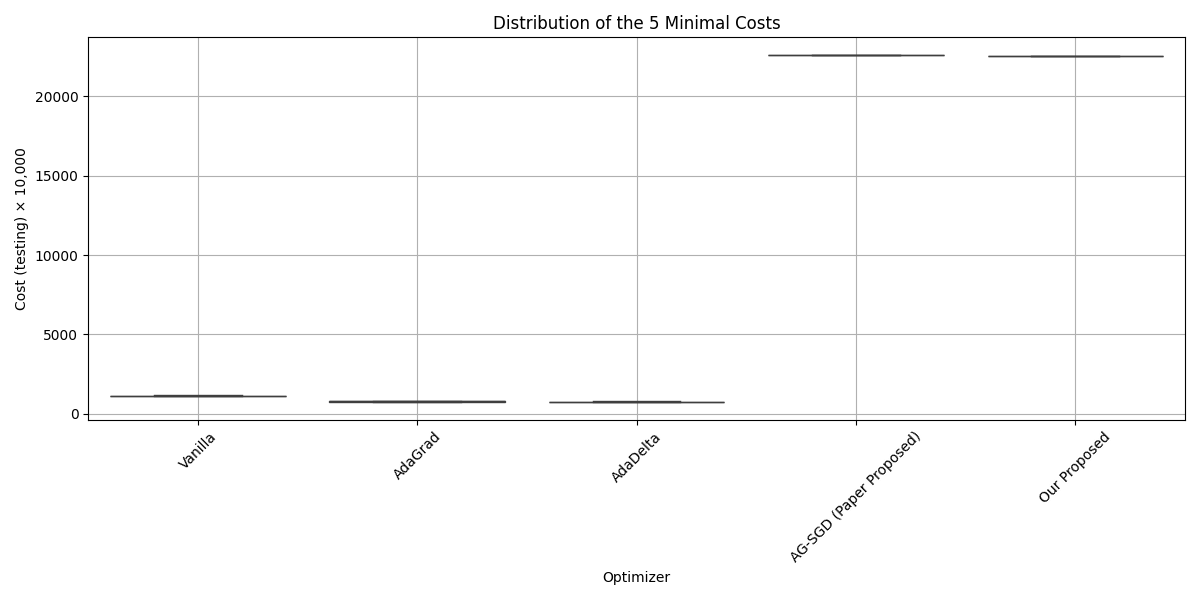
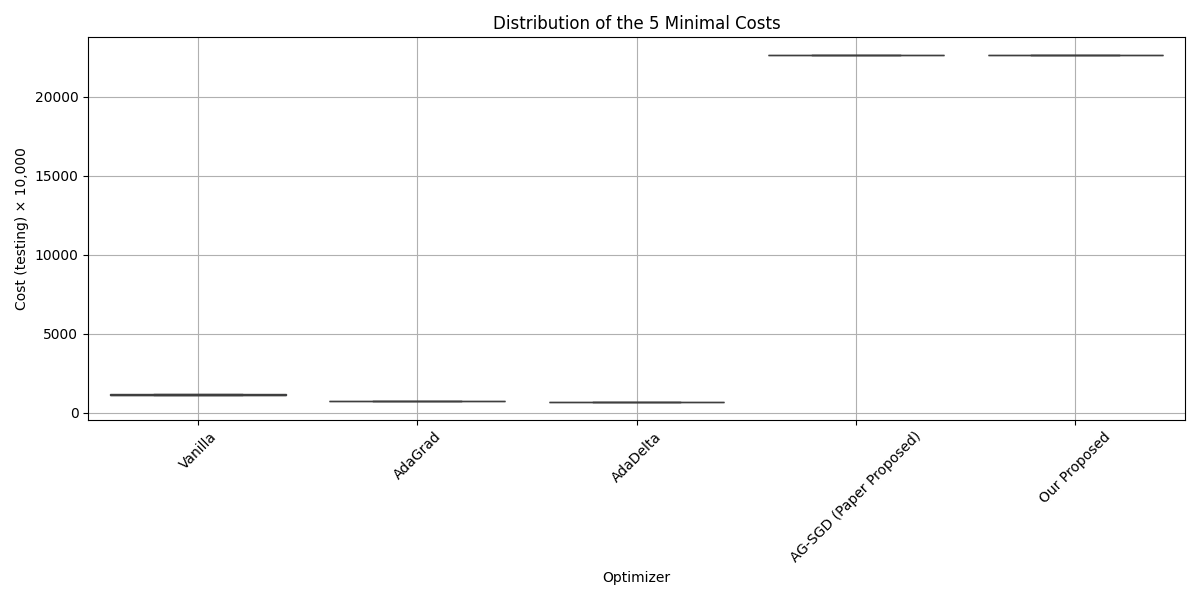
Add files via upload

diff --git a/aem pit/optimizer_comparison.py b/aem pit/optimizer_comparison.py
@@ -1,0 +1,135 @@
+import torch
+import torch.nn as nn
+import torch.optim as optim
+import numpy as np
+import pandas as pd
+import matplotlib.pyplot as plt
+import seaborn as sns
+from proposed_optimizer import AngleSGD
+
+
+# Set random seeds
+torch.manual_seed(0)
+np.random.seed(0)
+
+def F(a, s=1):
+    k = 15.0  # sharper than C2 but smoother than C3
+    a_tensor = torch.tensor(a, dtype=torch.float32)
+    return -s * (2 / (1 + torch.exp(-k * (2 * a_tensor - 1))) - 1)
+
+x = np.linspace(0, 1, 100)
+y = F(x, s=1)
+
+x_tensor = torch.tensor(x, dtype=torch.float32).view(-1, 1)
+y_tensor = torch.tensor(y, dtype=torch.float32).view(-1, 1)
+
+# Define model
+class SimpleLinearModel(nn.Module):
+    def __init__(self):
+        super(SimpleLinearModel, self).__init__()
+        self.linear = nn.Linear(1, 1)
+
+    def forward(self, x):
+        return self.linear(x)
+
+# Optimizers to compare
+def get_optimizers(model):
+    return {
+        "Vanilla": optim.SGD(model.parameters(), lr=0.01),
+        "Momentum": optim.SGD(model.parameters(), lr=0.01, momentum=0.9),
+        "RMSprop": optim.RMSprop(model.parameters(), lr=0.01),
+        "Adam": optim.Adam(model.parameters(), lr=0.01),
+        "Nadam": optim.NAdam(model.parameters(), lr=0.01),
+        "AdaMax": optim.Adamax(model.parameters(), lr=0.01),
+        "AdaDelta": optim.Adadelta(model.parameters(), lr=1.0),
+        "AdaGrad": optim.Adagrad(model.parameters(), lr=0.01),
+        "AMSGrad": optim.Adam(model.parameters(), lr=0.01, amsgrad=True),
+        "Proposed": AngleSGD(model.parameters(), lr=0.0005, s=1.0, d=0.5, iter_decay=5)  # Replace with your method
+    }
+
+num_epochs = 50
+iterations_per_epoch = 100  # Number of iterations per epoch
+total_iterations = num_epochs * iterations_per_epoch
+test_costs = {opt_name: [] for opt_name in get_optimizers(SimpleLinearModel()).keys()}
+min_costs = []
+
+for opt_name in test_costs.keys():
+    model = SimpleLinearModel()
+    criterion = nn.MSELoss()
+    optimizer = get_optimizers(model)[opt_name]
+    iteration_costs = []
+
+    for epoch in range(num_epochs):
+        for iteration in range(iterations_per_epoch):
+            model.train()
+            optimizer.zero_grad()
+            outputs = model(x_tensor)
+            loss = criterion(outputs, y_tensor)
+            loss.backward()
+            optimizer.step()
+
+            with torch.no_grad():
+                model.eval()
+                test_output = model(x_tensor)
+                test_loss = criterion(test_output, y_tensor).item()
+                iteration_costs.append(test_loss)
+
+    test_costs[opt_name] = iteration_costs
+    min_costs.append([opt_name] + sorted(iteration_costs)[-5:][::-1])
+
+# Save cost per iteration
+cost_df = pd.DataFrame(test_costs)
+cost_df.to_csv("test_costs_per_optimizer.csv")
+
+# Compute statistics
+stats = []
+for row in min_costs:
+    opt_name = row[0]
+    values = row[1:]
+    avg = np.mean(values)
+    std = np.std(values)
+    var = np.var(values)
+    stats.append([opt_name] + values + [avg, std, var])
+
+columns = ["Optimizer", "Min1", "Min2", "Min3", "Min4", "Min5", "Average", "Std Dev", "Variance"]
+stats_df = pd.DataFrame(stats, columns=columns)
+stats_df.to_csv("minimal_cost_stats.csv", index=False)
+
+# Plot cost vs iteration
+plt.figure(figsize=(12, 6))
+iterations = range(total_iterations)
+for col in cost_df.columns:
+    plt.plot(iterations, cost_df[col] * 10000, label=col, marker='o', markersize=2)
+plt.xlabel("Iteration")
+plt.ylabel("Cost(testing) scaled by 10,000")
+plt.legend()
+plt.title("Iteration-wise Cost Comparison")
+plt.grid(True)
+plt.tight_layout()
+plt.savefig("cost_vs_iteration.png")
+plt.show()
+
+# Boxplot
+box_data = []
+box_labels = []
+for i, row in stats_df.iterrows():
+    for val in row[1:6]:
+        box_data.append(val * 10000)
+        box_labels.append(row["Optimizer"])
+
+plt.figure(figsize=(12, 6))
+sns.boxplot(x=box_labels, y=box_data)
+plt.xlabel("Optimizer")
+plt.ylabel("Cost(testing) scaled by 10,000")
+plt.title("Distributions of the 5 Minimal Costs")
+plt.xticks(rotation=45)
+plt.grid(True)
+plt.tight_layout()
+plt.savefig("boxplot_minimal_costs.png")
+plt.show()
+
+# Save LaTeX table
+latex_table = stats_df.to_latex(index=False, float_format="%.4f", caption="Statistical Information of the 5 Minimal Costs", label="tab:min_costs")
+with open("minimal_costs_table.tex", "w") as f:
+    f.write(latex_table)
+print("All files saved successfully.")

diff --git a/aem pit/proposed_optimizer.py b/aem pit/proposed_optimizer.py
@@ -1,0 +1,109 @@
+import torch
+from torch.optim.optimizer import Optimizer
+
+class OurProposedSGD(Optimizer):
+    def __init__(self, params, lr=0.01, s=1.2, d=0.95, iter_decay=10, k_init=15.0, k_decay=0.95):
+        defaults = dict(lr=lr, s=s, d=d, iter_decay=iter_decay, step=0, k_init=k_init, k_decay=k_decay)
+        super().__init__(params, defaults)
+
+    @staticmethod
+    def _angle_between(v1, v2):
+        v1_norm = torch.norm(v1)
+        v2_norm = torch.norm(v2)
+        if v1_norm.item() == 0 or v2_norm.item() == 0:
+            return torch.tensor(0.0)
+        cosine = torch.clamp(torch.dot(v1, v2) / (v1_norm * v2_norm), -1.0, 1.0)
+        angle_rad = torch.acos(cosine)
+        return angle_rad / torch.pi  # Normalize to [0, 1]
+
+    @staticmethod
+    def F(angle, s):
+        k = 15.0  # sharper curve than AG-SGD
+        return s * (1 + (-2 / (1 + torch.exp(-k * (2 * angle - 1)))))
+
+    def step(self, closure=None):
+        loss = closure() if closure else None
+
+        for group in self.param_groups:
+            s, d, step_num = group['s'], group['d'], group['step']
+            group['step'] += 1
+            if step_num > 0 and step_num % group['iter_decay'] == 0:
+                group['s'] *= d
+                group['k_init'] *= group['k_decay']
+
+            for p in group['params']:
+                if p.grad is None:
+                    continue
+
+                grad = p.grad.data
+                state = self.state[p]
+
+                if 'prev_grad' not in state:
+                    state['prev_grad'] = grad.clone().detach() + 1e-8 * torch.randn_like(grad)
+                    p.data -= group['lr'] * grad
+                    continue
+
+                prev_grad = state['prev_grad']
+                angle = self._angle_between(prev_grad.view(-1), grad.view(-1))
+                coefpg = self.F(angle, s)
+                coefcg = s - coefpg
+
+                new_grad = coefpg * prev_grad + coefcg * grad
+                p.data -= group['lr'] * new_grad
+
+                state['prev_grad'] = grad.clone().detach()
+
+        return loss
+
+
+class AGSGD(Optimizer):
+    def __init__(self, params, lr=0.01, s=1.2, d=0.95, iter_decay=10):
+        defaults = dict(lr=lr, s=s, d=d, iter_decay=iter_decay, step=0)
+        super().__init__(params, defaults)
+
+    def _angle_between(self, v1, v2):
+        v1_norm = torch.norm(v1)
+        v2_norm = torch.norm(v2)
+        if v1_norm.item() == 0 or v2_norm.item() == 0:
+            return torch.tensor(0.0)
+        cosine = torch.clamp(torch.dot(v1, v2) / (v1_norm * v2_norm), -1.0, 1.0)
+        angle_rad = torch.acos(cosine)
+        return angle_rad / torch.pi  # Normalize to [0, 1]
+
+    def step(self, closure=None):
+        loss = closure() if closure else None
+
+        for group in self.param_groups:
+            s = group['s']
+            d = group['d']
+            step_num = group['step']
+            group['step'] += 1
+
+            if step_num > 0 and step_num % group['iter_decay'] == 0:
+                group['s'] *= d
+
+            for p in group['params']:
+                if p.grad is None:
+                    continue
+
+                grad = p.grad.data
+                state = self.state[p]
+
+                if 'prev_grad' not in state:
+                    state['prev_grad'] = grad.clone().detach() + 1e-8 * torch.randn_like(grad)
+                    p.data -= group['lr'] * grad
+                    continue
+
+                prev_grad = state['prev_grad']
+                angle = self._angle_between(prev_grad.view(-1), grad.view(-1))
+
+                # Modified coefficient calculation for AG-SGD
+                coefpg = s * (2 * angle - 1)
+                coefcg = s - coefpg
+
+                new_grad = coefpg * prev_grad + coefcg * grad
+                p.data -= group['lr'] * new_grad
+
+                state['prev_grad'] = grad.clone().detach()
+
+        return loss

diff --git a/aem pit/minimal_costs_table.tex b/aem pit/minimal_costs_table.tex
@@ -1,0 +1,20 @@
+\begin{table}
+\caption{Statistical Information of the 5 Minimal Costs}
+\label{tab:min_costs}
+\begin{tabular}{lrrrrrrrr}
+\toprule
+Optimizer & Min1 & Min2 & Min3 & Min4 & Min5 & Average & Std Dev & Variance \\
+\midrule
+Vanilla & 1.3736 & 1.3157 & 1.2607 & 1.2085 & 1.1588 & 1.2635 & 0.0759 & 0.0058 \\
+Momentum & 0.2260 & 0.2233 & 0.2197 & 0.2155 & 0.2108 & 0.2191 & 0.0054 & 0.0000 \\
+RMSprop & 0.7012 & 0.5690 & 0.4810 & 0.4175 & 0.3694 & 0.5076 & 0.1176 & 0.0138 \\
+Adam & 0.3494 & 0.3403 & 0.3316 & 0.3235 & 0.3158 & 0.3321 & 0.0119 & 0.0001 \\
+Nadam & 0.3582 & 0.3530 & 0.3484 & 0.3440 & 0.3398 & 0.3487 & 0.0065 & 0.0000 \\
+AdaMax & 1.3601 & 1.3286 & 1.2977 & 1.2676 & 1.2381 & 1.2984 & 0.0431 & 0.0019 \\
+AdaDelta & 0.2415 & 0.2401 & 0.2387 & 0.2373 & 0.2358 & 0.2387 & 0.0020 & 0.0000 \\
+AdaGrad & 1.0963 & 1.0771 & 1.0617 & 1.0485 & 1.0369 & 1.0641 & 0.0210 & 0.0004 \\
+AMSGrad & 0.7276 & 0.7073 & 0.6875 & 0.6682 & 0.6495 & 0.6880 & 0.0276 & 0.0008 \\
+Proposed & 1.4818 & 1.4648 & 1.4479 & 1.4311 & 1.4145 & 1.4480 & 0.0238 & 0.0006 \\
+\bottomrule
+\end{tabular}
+\end{table}
